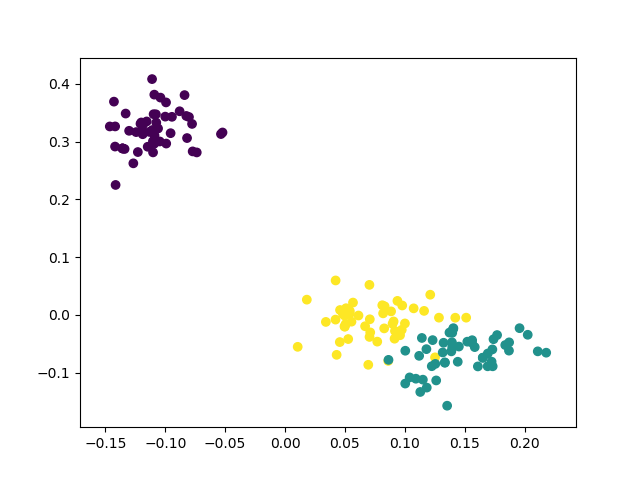
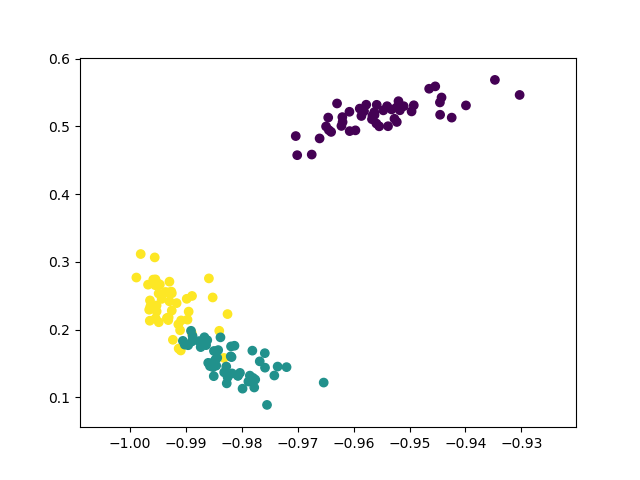
.

diff --git a/ml/back_propagation/back_propagation.py b/ml/back_propagation/back_propagation.py
@@ -12,23 +12,20 @@ from ml.math_tools import mt
 
 
 class BP():
-    def str_column_to_int(self, dataset, column):
-        class_values = [row[column] for row in dataset]
-        unique = set(class_values)
-        lookup = dict()
-        for i, value in enumerate(unique):
-            lookup[value] = i
-        for row in dataset:
-            row[column] = lookup[row[column]]
-        return lookup
-
     def init_network(self, n_inputs, n_hidden, n_outputs):
         network = list()
-        # hidden layer has [hidden] neuron with [inputs + 1] input weights plus the bias.
+        """
+        hidden layer has [hidden] neuron
+        [inputs + 1] input weights + bias
+        """
         hidden_layer = [{'weights': [random() for i in range(n_inputs + 1)]}
                         for i in range(n_hidden)]
         network.append(hidden_layer)
-        # The output layer has [outputs] neurons, each with [hidden + 1] weight plus the bias.
+
+        """
+        The output layer has [outputs] neurons
+        each [hidden + 1] weight + bias
+        """
         output_layer = [{'weights': [random() for i in range(n_hidden + 1)]}
                         for i in range(n_outputs)]
         network.append(output_layer)
@@ -38,22 +35,22 @@ class BP():
     step 1 forward_propagate
     """
 
-    def activate(self, weights, inputs):
+    def _activate(self, weights, inputs):
         activation = weights[-1]
         for i in range(len(weights) - 1):
             activation += weights[i] * inputs[i]
         return activation
 
-    def transfer(self, activation):
+    def _transfer(self, activation):
         return 1.0 / (1.0 + math.exp(-activation))
 
-    def forward_propagate(self, network, row):
+    def _forward_propagate(self, network, row):
         inputs = row
         for layer in network:
             new_inputs = []
             for neuron in layer:
-                activation = self.activate(neuron['weights'], inputs)
-                neuron['output'] = self.transfer(activation)
+                activation = self._activate(neuron['weights'], inputs)
+                neuron['output'] = self._transfer(activation)
                 new_inputs.append(neuron['output'])
             """
             * inputs = new_inputs, which is the last step value
@@ -61,7 +58,7 @@ class BP():
             inputs = new_inputs
         return inputs
 
-    def transfer_derivative(self, output):
+    def _transfer_derivative(self, output):
         return output * (1.0 - output)
 
     """
@@ -95,13 +92,13 @@ class BP():
                 * no output
                 """
                 neuron['delta'] = errors[j] * \
-                    self.transfer_derivative(neuron['output'])
+                    self._transfer_derivative(neuron['output'])
 
     """
     step 3 update_weights
     """
 
-    def update_weights(self, network, row, lrate):
+    def _update_weights(self, network, row, lrate):
         for i in range(len(network)):
             inputs = row[:-1]
             if i != 0:
@@ -123,7 +120,7 @@ class BP():
             sum_error = 0
 
             for row in train:
-                outputs = self.forward_propagate(network, row)  # cal output
+                outputs = self._forward_propagate(network, row)  # cal output
 
                 expected = [0 for i in range(noutputs)]
 
@@ -133,12 +130,12 @@ class BP():
                                   2 for i in range(len(expected))])
 
                 self.backward_propagate_error(network, expected)  # get delta
-                self.update_weights(network, row, lrate)
+                self._update_weights(network, row, lrate)
 
             print('epoch=%d, learning rate=%.3f, sum error=%.3f' %
                   (epoch, lrate, sum_error))
 
     def predict(self, network, row):
-        outputs = self.forward_propagate(network, row)
+        outputs = self._forward_propagate(network, row)
         print(outputs)
         return outputs.index(max(outputs))

diff --git a/ml/math_tools/mt.py b/ml/math_tools/mt.py
@@ -6,12 +6,22 @@ from sklearn.model_selection import train_test_split
 
 
 def covariance_matrix(X, Y=None):
+    """
+    caculate covariance matrix
+    """
     if Y is None:
         Y = X
     n_samples = np.shape(X)[0]
     covariance_matrix = (1 / (n_samples - 1)) * \
         (X - X.mean(axis=0)).T.dot(Y - Y.mean(axis=0))
     return np.array(covariance_matrix, dtype=float)
+
+
+def eig(matrix):
+    """
+    return eigenvalues, eigenvectors
+    """
+    return np.linalg.eig(matrix)
 
 
 def calculate_variance(X):
@@ -26,7 +36,7 @@ def calculate_variance(X):
 
 def standardize(X):
     """
-    Standardize the dataset X
+    standardize X
     """
     X_std = X
     mean = X.mean(axis=0)
@@ -38,6 +48,9 @@ def standardize(X):
 
 
 def normalize(X, axis=-1, order=2):
+    """
+    normalize X
+    """
     l2 = np.atleast_1d(np.linalg.norm(X, order, axis))
     l2[l2 == 0] = 1
     return X / np.expand_dims(l2, axis)

diff --git a/ml/principal_component_analysis/principal_component_analysis.py b/ml/principal_component_analysis/principal_component_analysis.py
@@ -12,9 +12,19 @@ class PCA():
     def _transform(self, X, n_components):
         covariance_matrix = mt.covariance_matrix(X)
 
-        eigenvalues, eigenvectors = np.linalg.eig(covariance_matrix)
+        """
+        Get eigenvalues and eigenvectors of SW^-1 * SB
+        """
+        eigenvalues, eigenvectors = mt.eig(covariance_matrix)
 
+        """
+        Sort eigenvectors from largest to smallest
+        """
         idx = eigenvalues.argsort()[::-1]
+
+        """
+        select the first n_components of eigenvalues
+        """
         eigenvalues = eigenvalues[idx][:n_components]
         eigenvectors = eigenvectors[:, idx][:, :n_components]
 

diff --git a/ml/linear_discriminant_analysis/linear_discriminant_analysis.py b/ml/linear_discriminant_analysis/linear_discriminant_analysis.py
@@ -58,7 +58,7 @@ class LDA():
         [ 0.70509418 -0.27697698  0.37633114 -0.53338619]
         [ 0.03509243  0.92533467  0.31008854 -0.21533546]]
         """
-        eigenvalues, eigenvectors = np.linalg.eigh(A)
+        eigenvalues, eigenvectors = mt.eig(A)
 
         """
         Sort eigenvectors from largest to smallest
